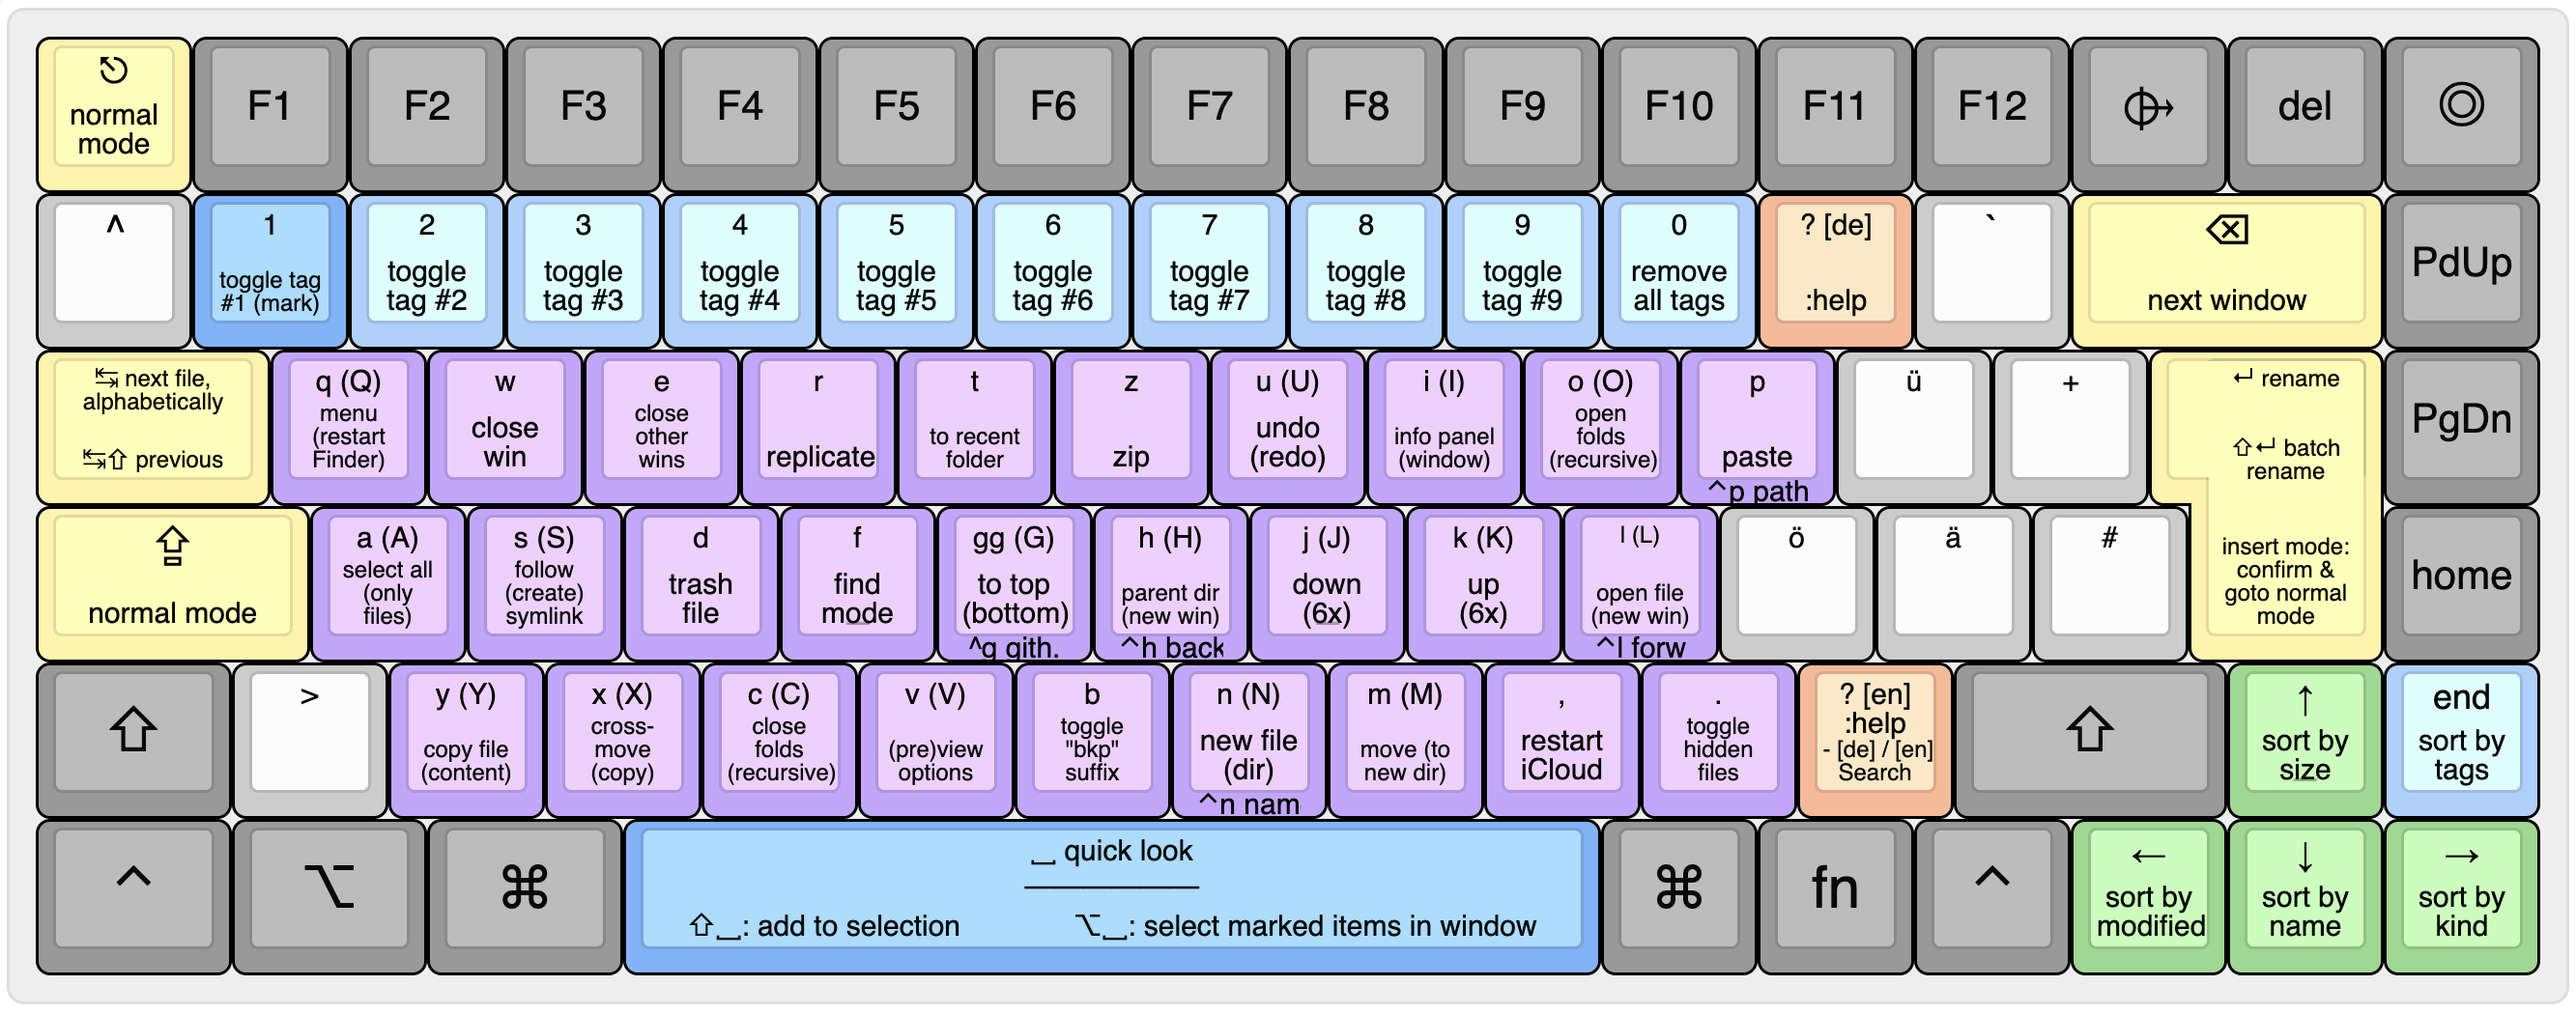
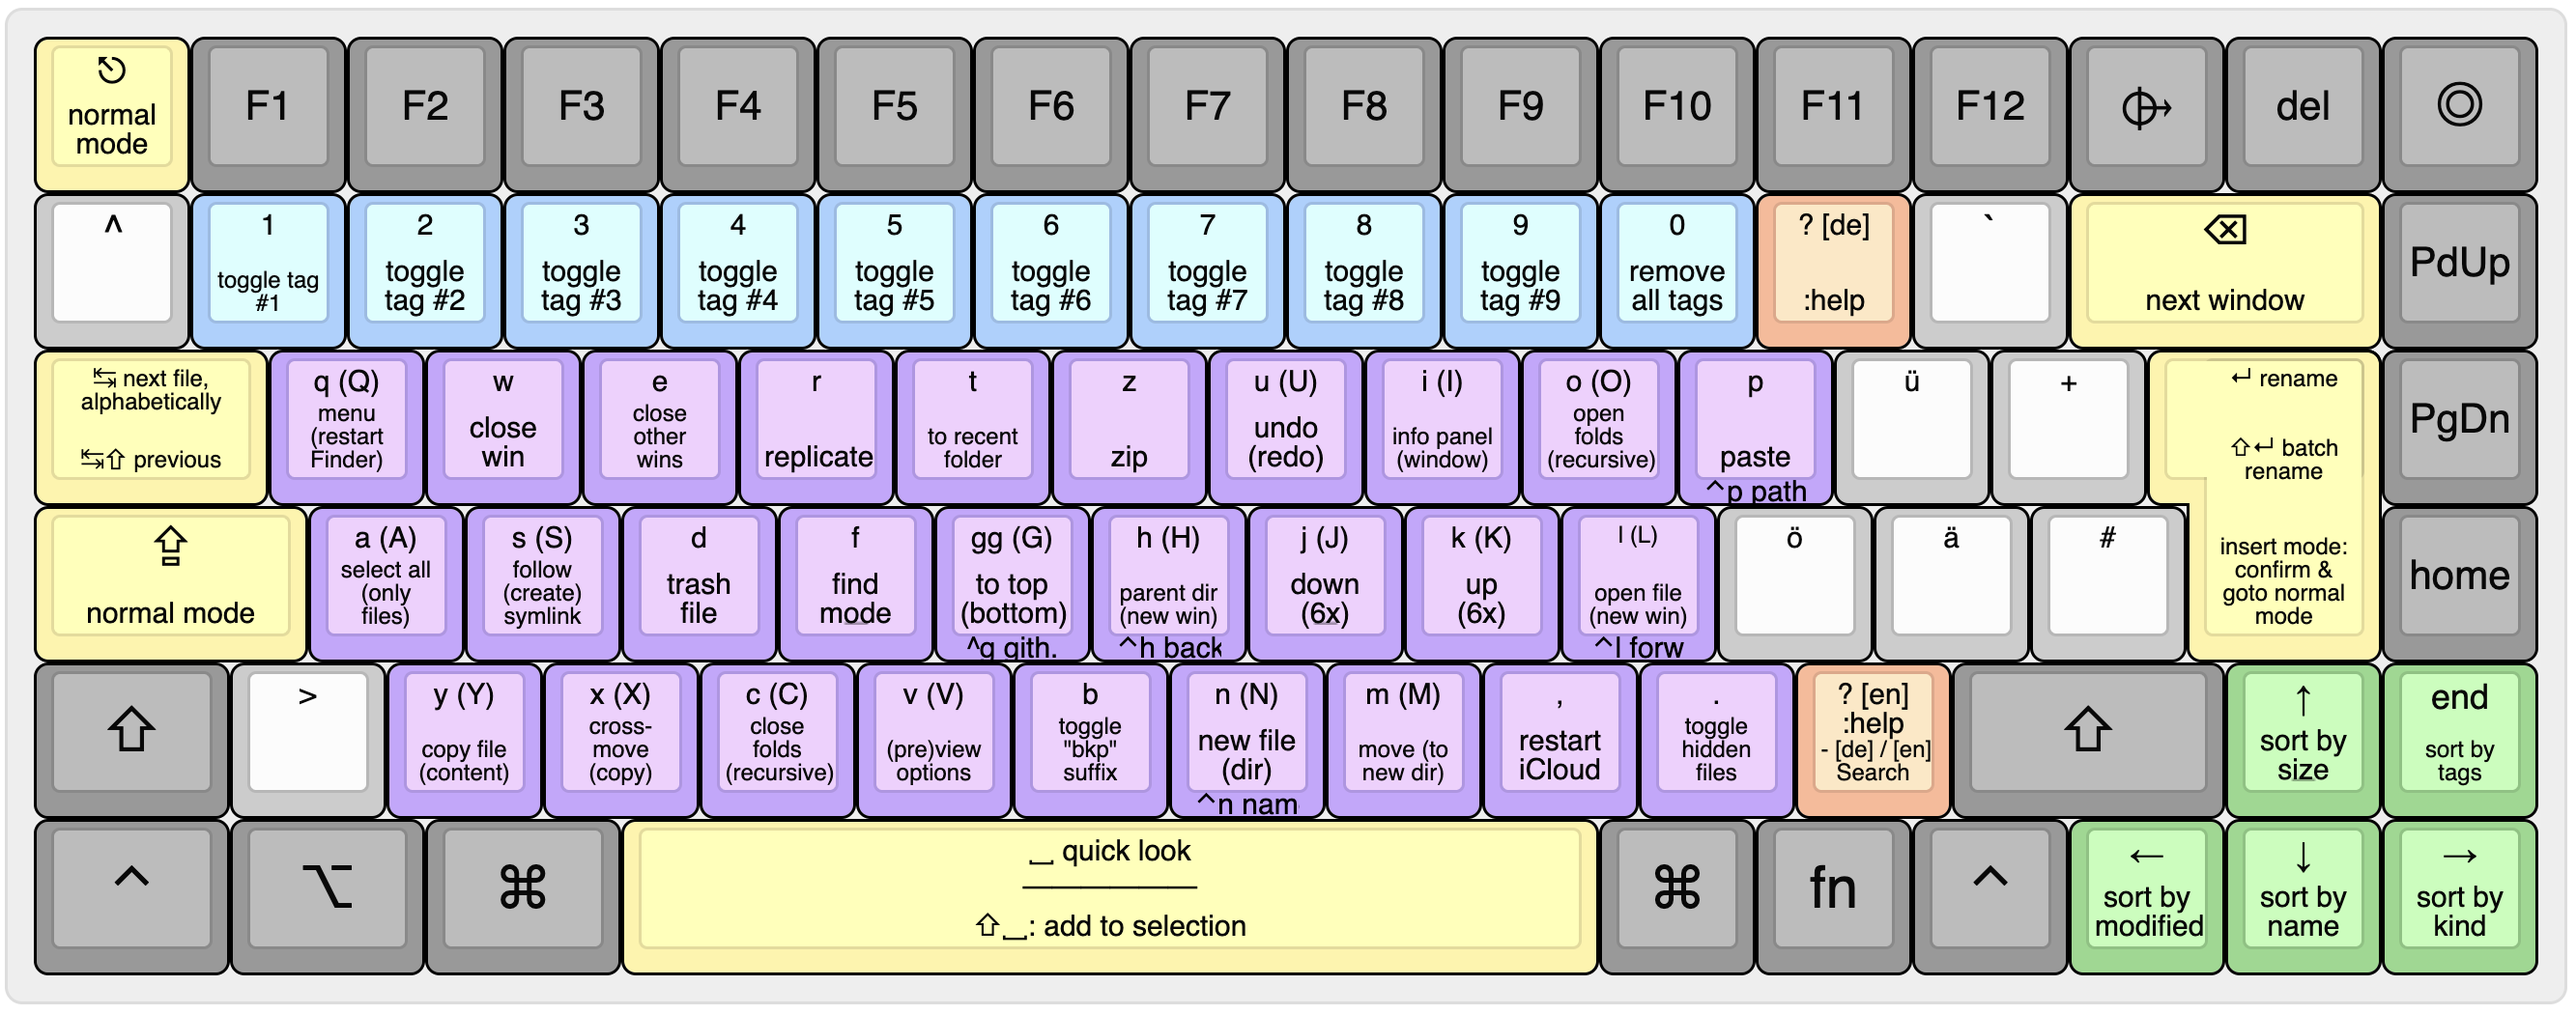
break!: remove multi-select until issues fixed

diff --git a/README.md b/README.md
@@ -34,7 +34,6 @@ Feature-rich control of macOS Finder without the mouse, inspired by vim and rang
 - __`Tab`__ goes to the next file in alphabetical order, *even when the view is not sorted alphabetically.* (This is actually a built-in feature of Finder, but probably worth pointing out since barely anyone knows about it.)
 - __Open in GitHub__: If the file is in a git repo, `Ctrl+g` opens the file at GitHub and also copies the URL to the clipboard.
 - __Batch Rename__ *(experimental)*: Rename with JavaScript-flavored Regex.
-- __Marks & Multi-select__ *(experimental)*: Press `1` to (un)mark the current selection. Use `alt+space` to select all marked files in the current window. This way you can make non-continious selections without having to use `cmd+leftClick`. Note that this only works for selecting files, ([see this issue for details](https://github.com/chrisgrieser/finder-vim-mode/issues/3)), and [does not always work in hidden directories](https://discussions.apple.com/thread/2088971).
 
 ## Installation
 1. Run this in your terminal:
